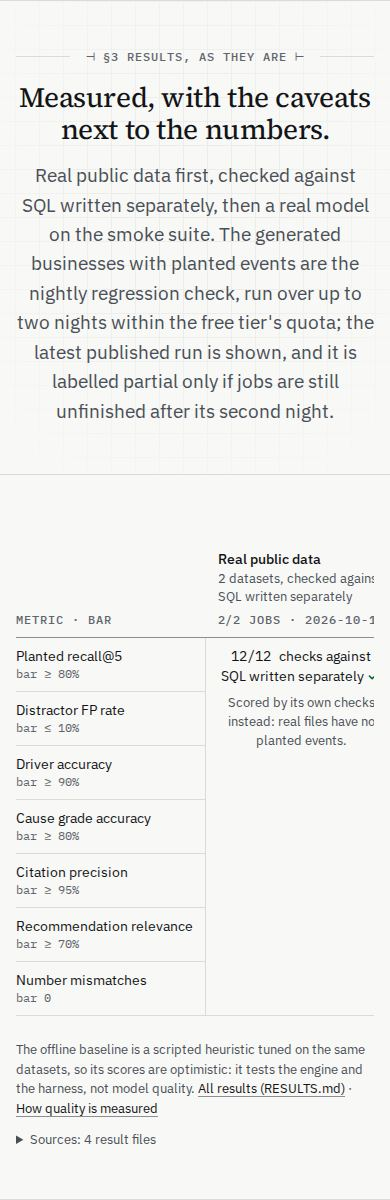
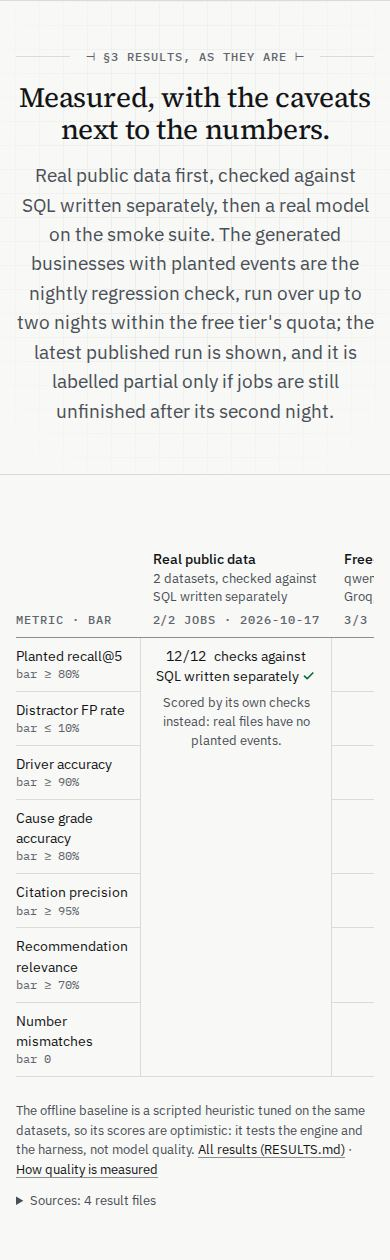
fix(site): results table review fixes — every figure tested, spanning cells name their run, wrapping label column on phones

diff --git a/scripts/site/browser/site.spec.ts b/scripts/site/browser/site.spec.ts
@@ -398,10 +398,14 @@ test("without JS the landing page is complete and chips link into the fact ledge
 test("results: metrics as rows and runs as columns, no sideways scroll at 1440 or 1920, one cell for a run without rates", async ({
   browser,
 }) => {
+  type Bars = { bars: { metric: string; value: number | null; pass: boolean | null }[] };
   const evals = JSON.parse(readFileSync(join(import.meta.dirname, "../../../apps/docs/src/data/evals.json"), "utf8")) as {
-    full: { status: string; completed: number; datasets: number };
-    smoke: { bars: { metric: string; value: number | null }[] };
+    full: Bars & { status: string; completed: number; datasets: number };
+    smoke: Bars & { status: string };
+    synthetic: Bars & { status: string };
+    real: { datasets: { checks: { pass: boolean }[] }[] };
   };
+  const fmt = (metric: string, v: number) => (metric === "Number mismatches" ? String(v) : `${(v * 100).toFixed(1)}%`);
   for (const width of [1440, 1920]) {
     const ctx = await browser.newContext({ viewport: { width, height: 900 } });
     const page = await ctx.newPage();
@@ -419,11 +423,44 @@ test("results: metrics as rows and runs as columns, no sideways scroll at 1440 o
       const span = table.locator("td.aa-span", { hasText: `${evals.full.completed}/${evals.full.datasets}` });
       await expect(span).toHaveAttribute("rowspan", "7");
     }
-    // The smoke column's first figure is the run's own planted recall.
-    const recall = evals.smoke.bars.find((b) => b.metric === "Planted recall@5")?.value ?? 0;
-    await expect(table.locator("tbody tr").first().locator("td.num").first()).toContainText(`${(recall * 100).toFixed(1)}%`);
+    // Every figure is its run's own value from evals.json, in the row of its metric, with "below bar" exactly where the
+    // run missed the bar. Columns with rates, in page order: smoke, then the nightly run if complete, then the baseline.
+    const shown = [evals.smoke, evals.full, evals.synthetic].filter((r) => r.status === "complete");
+    const rows = await table.locator("tbody tr").all();
+    for (const row of rows) {
+      const metric = ((await row.locator('th[scope="row"] .aa-metric').textContent()) ?? "").trim();
+      const cells = row.locator("td.num");
+      await expect(cells).toHaveCount(shown.length);
+      for (const [k, run] of shown.entries()) {
+        const b = run.bars.find((x) => x.metric === metric);
+        expect(b, metric).toBeTruthy();
+        const cell = cells.nth(k);
+        await expect(cell, metric).toContainText(fmt(metric, b?.value ?? Number.NaN));
+        if (b?.pass === false) await expect(cell.locator(".aa-below"), metric).toHaveCount(1);
+        else await expect(cell.locator(".aa-below"), metric).toHaveCount(0);
+      }
+    }
+    // The real public data cell: the checks passed of all checks, counted from the result file.
+    const checks = evals.real.datasets.flatMap((d) => d.checks);
+    await expect(table.locator('td.aa-span[headers="aa-run-real"]')).toContainText(
+      `${checks.filter((c) => c.pass).length}/${checks.length}`,
+    );
     await ctx.close();
   }
+  // At 390 the table scrolls inside its wrapper and the metric column stays at its left edge.
+  const ctx = await browser.newContext({ viewport: { width: 390, height: 844 } });
+  const page = await ctx.newPage();
+  await page.goto(LANDING, { waitUntil: "networkidle" });
+  const wrap = page.locator("#results .aa-ledger-wrap");
+  await wrap.evaluate((e) => {
+    e.scrollLeft = e.scrollWidth;
+  });
+  const [wrapLeft, labelLeft] = await wrap.evaluate((e) => [
+    e.getBoundingClientRect().left,
+    (e.querySelector('tbody th[scope="row"]') as HTMLElement).getBoundingClientRect().left,
+  ]);
+  expect(Math.abs((labelLeft ?? 0) - (wrapLeft ?? 0))).toBeLessThan(2);
+  await ctx.close();
 });
 
 test("the status strip leads with proven results and links the nightly regression suite to §3", async ({ page }) => {

diff --git a/scripts/test/landing-exhibit.test.ts b/scripts/test/landing-exhibit.test.ts
@@ -245,11 +245,10 @@ describe("results table run labels (docs/EVALS.md §4)", () => {
     expect(suiteRunLabels({ completed: 21, datasets: 30, passes: { dates: ["2026-10-19"], of: 2 } })).toEqual({
       status: "resuming",
       flag: "in progress: 21 of 30 jobs, the next pass runs the rest",
-      na: "n/a (resumes next pass)",
     });
   });
   it("labels it partial only when jobs are unfinished after its last pass (or it had a single pass)", () => {
-    const partial = { status: "partial", flag: "partial", na: "n/a (partial run)" };
+    const partial = { status: "partial", flag: "partial" };
     expect(suiteRunLabels({ completed: 29, datasets: 30, passes: { dates: ["2026-10-19", "2026-10-20"], of: 2 } })).toEqual(partial);
     // A first night closed because the second never came (planResume) reads partial too.
     expect(suiteRunLabels({ completed: 21, datasets: 30, passes: { dates: ["2026-10-19"], of: 1 } })).toEqual(partial);
@@ -257,12 +256,11 @@ describe("results table run labels (docs/EVALS.md §4)", () => {
     expect(suiteRunLabels({ completed: 30, datasets: 30, passes: { dates: ["2026-10-19", "2026-10-20"], of: 2 } })).toEqual({
       status: "complete",
       flag: null,
-      na: null,
     });
   });
   it("index.astro takes the labels from the generated data, never from its own count", () => {
     const page = readFileSync(join(import.meta.dirname, "../../apps/docs/src/pages/index.astro"), "utf8");
-    expect(page).not.toMatch(/completed < r\.suite\.datasets|n\/a \(partial run\)/);
+    expect(page).not.toMatch(/completed\s*<\s*(\w+\.)*datasets|n\/a \(partial run\)/);
     expect(page).toContain("const { flag, status, completed, datasets } = c.suite;");
   });
 });

diff --git a/apps/docs/scripts/landing-data.ts b/apps/docs/scripts/landing-data.ts
@@ -453,16 +453,9 @@ export function suiteRunLabels(s: { readonly completed: number; readonly dataset
   readonly status: "complete" | "resuming" | "partial";
   /** The flag beside the jobs count; null for a complete run. */
   readonly flag: string | null;
-  /** The text in every metric cell when no bar is judged; null for a complete run. */
-  readonly na: string | null;
 } {
   const status = runStatus(s.completed, s.datasets, s.passes ?? undefined);
-  if (status === "resuming")
-    return {
-      status,
-      flag: `in progress: ${s.completed} of ${s.datasets} jobs, the next pass runs the rest`,
-      na: "n/a (resumes next pass)",
-    };
-  if (status === "partial") return { status, flag: "partial", na: "n/a (partial run)" };
-  return { status, flag: null, na: null };
+  if (status === "resuming") return { status, flag: `in progress: ${s.completed} of ${s.datasets} jobs, the next pass runs the rest` };
+  if (status === "partial") return { status, flag: "partial" };
+  return { status, flag: null };
 }

diff --git a/docs/progress/STATE.md b/docs/progress/STATE.md
@@ -40,7 +40,7 @@ Since 2026-10-16 (maintainer's instruction, from PR #15 on): post the spec-revie
 | M13l Site v3 design pass (plan) | DONE (plan approved 2026-10-20; five build PRs follow) | yes | [#36](https://github.com/gfirik/agentic-analytics/pull/36) | — (plan only: `docs/plans/site-v3.md`, before screenshots in `docs/plans/site-v3/before/`) | The maintainer's design brief (`docs/design/site-v3.md`) and the plan: 13 findings plus 3 found in the screenshots, five PRs in the brief's order after the maintainer's decisions (one code size; labels and chips keep the label size; the walkthrough is timed everywhere, no scroll-pinning; finding 9 moved to the analyst-grade plan; the docs h1 stays and the size rule is amended). No site code changed in this PR |
 | M13l Nightly quota (two-pass runs) | DONE | no | [#37](https://github.com/gfirik/agentic-analytics/pull/37) | `bunx vitest run evals/runner/test/passes.test.ts apps/cli/test/eval-args.test.ts scripts/test/evals-table.test.ts scripts/test/landing-exhibit.test.ts`; nightly: `bash scripts/eval-daily.sh full --small-model --keep-reports data/eval-reports` (`aa eval --passes 2`) | 2026-10-19 nightly pass: 21 of 30 jobs before Groq's 200k planner tokens/day ran out. Each run now takes up to two nights (the second runs only the unfinished jobs), partial only after the last pass; a configured run is named after its routes. Cloudflare Workers AI as a second free planner route DEFERRED (no token; see Deferred checks) |
 | M13l Site v3 PR 1: native pipeline stages | DONE | no | [#38](https://github.com/gfirik/agentic-analytics/pull/38) | `bun run --filter @agentic-analytics/docs build && bun run site:check:browser`; `bunx vitest run scripts/test/landing-exhibit.test.ts`; `tsx apps/docs/scripts/site-screenshots.ts --sections --out <dir>` | The pipeline scene (the README GIF's 640×480 canvas, type 32–48px on desktop and ~10px on phones) is replaced on the site by `PipelineStages.astro`: a rail of seven stops and one ledger panel per stop at the site's sizes, the finished report first; Play steps once to Report (150ms crossfade, none under reduced motion, no Play there); a stacked list without JS and under 40rem. Lighthouse (simulated mobile, 3 runs each): `/` 97/100/100/100 CLS 0, `/learn/` 97/100/100/100 CLS 0.0235 (the docs pages' existing font-swap shift: analysis 0.0233, glossary 0.0256 on the same build) |
-| M13l Site v3 PR 2: results transposed | IN_REVIEW | no | (this PR) | `bun run --filter @agentic-analytics/docs build && bun run site:check:browser` | §3's table turned: metrics as rows (seven, now including cause grade and recommendation relevance, the bars the smoke run misses), runs as columns. It fits 1440 and 1920 with no sideways scroll (it overflowed even at 1920). A run without rates (real public data; a partial or in-progress run) is one cell over all metric rows; sources in a `<details>` |
+| M13l Site v3 PR 2: results transposed | IN_REVIEW | no | [#39](https://github.com/gfirik/agentic-analytics/pull/39) | `bun run --filter @agentic-analytics/docs build && bun run site:check:browser` | §3's table turned: metrics as rows (seven, now including cause grade and recommendation relevance, the bars the smoke run misses), runs as columns. It fits 1440 and 1920 with no sideways scroll (it overflowed even at 1920). A run without rates (real public data; a partial or in-progress run) is one cell over all metric rows; sources in a `<details>`. Lighthouse (simulated mobile, 2 runs each): `/` 97/100/100/100 CLS 0, `/learn/` 97/100/100/100 CLS 0.0235 (the docs font swap) |
 
 Order: M0 → M1 → M2 → M3 → M4 → M5 → M6 → M7 → M8 → M9 → M10 → M11 → M12. In autopilot it runs sequentially. Parallel worktrees are an interactive option only.
 

diff --git a/apps/docs/DESIGN.md b/apps/docs/DESIGN.md
@@ -135,12 +135,13 @@ The scale (rem, root 16px; mobile values apply under 640px):
   2. `§1 HOW IT WORKS`: the pipeline stages (§6), full container width, inside the frame, one sentence above it.
   3. `§2 WHY IT'S DIFFERENT`: exactly three proof cells side by side (stacked on mobile): "The model never does arithmetic", "Definitions you confirm", "Every claim is cited". Each has a mono label, one sentence and one real tiny example: a chip, the metric's definition with the 2-line SQL it compiles to, a citation.
   4. `§3 RESULTS, AS THEY ARE`: one ruled table from `evals/results`, **metrics as rows, runs as columns**, so it fits the 1180px container with no sideways scroll.
-     - **Rows:** every bar a real-model run can miss (planted recall, distractor false positives, driver accuracy, cause grade, citation precision, recommendation relevance, number mismatches), each with its bar stated once in the row label.
+     - **Rows:** the seven headline bars (planted recall, distractor false positives, driver accuracy, cause grade, citation precision, recommendation relevance, number mismatches), including every bar the smoke run misses, each with its bar stated once in the row label. The rest are in RESULTS.md.
      - **Columns:** real public data, the real-model smoke run, the nightly regression, then the offline baseline. Each head gives the run, a one-line note, its jobs and its date.
-     - **Cells:** a figure plus the check, or a struck-style "below bar"; "meets the bar" is screen-reader text only.
+     - **Cells:** a figure plus the check, or an underlined "below bar" in ink; "meets the bar" is screen-reader text only.
      - **A run without rates gets one cell spanning every metric row:**
        - the real public data, scored by its own checks (12/12);
        - a run with jobs missing: partial after its last pass, in progress between passes, labelled from the generated status, with its jobs-finished count.
+       - Each spanning cell names its column head (`headers`), so a screen reader reads it under its run, not under the first metric.
      - **Sources:** the result files sit in a `<details>` under the table, with the RESULTS.md link.
      - **Under 60rem** the table scrolls inside its wrapper with the metric column held in place.
   5. `§4 QUICKSTART`: three steps (install, model, analyze) with code, the binary downloads and the Docker line, and the four doors (CLI, API, MCP, Telegram) as a ruled list.
